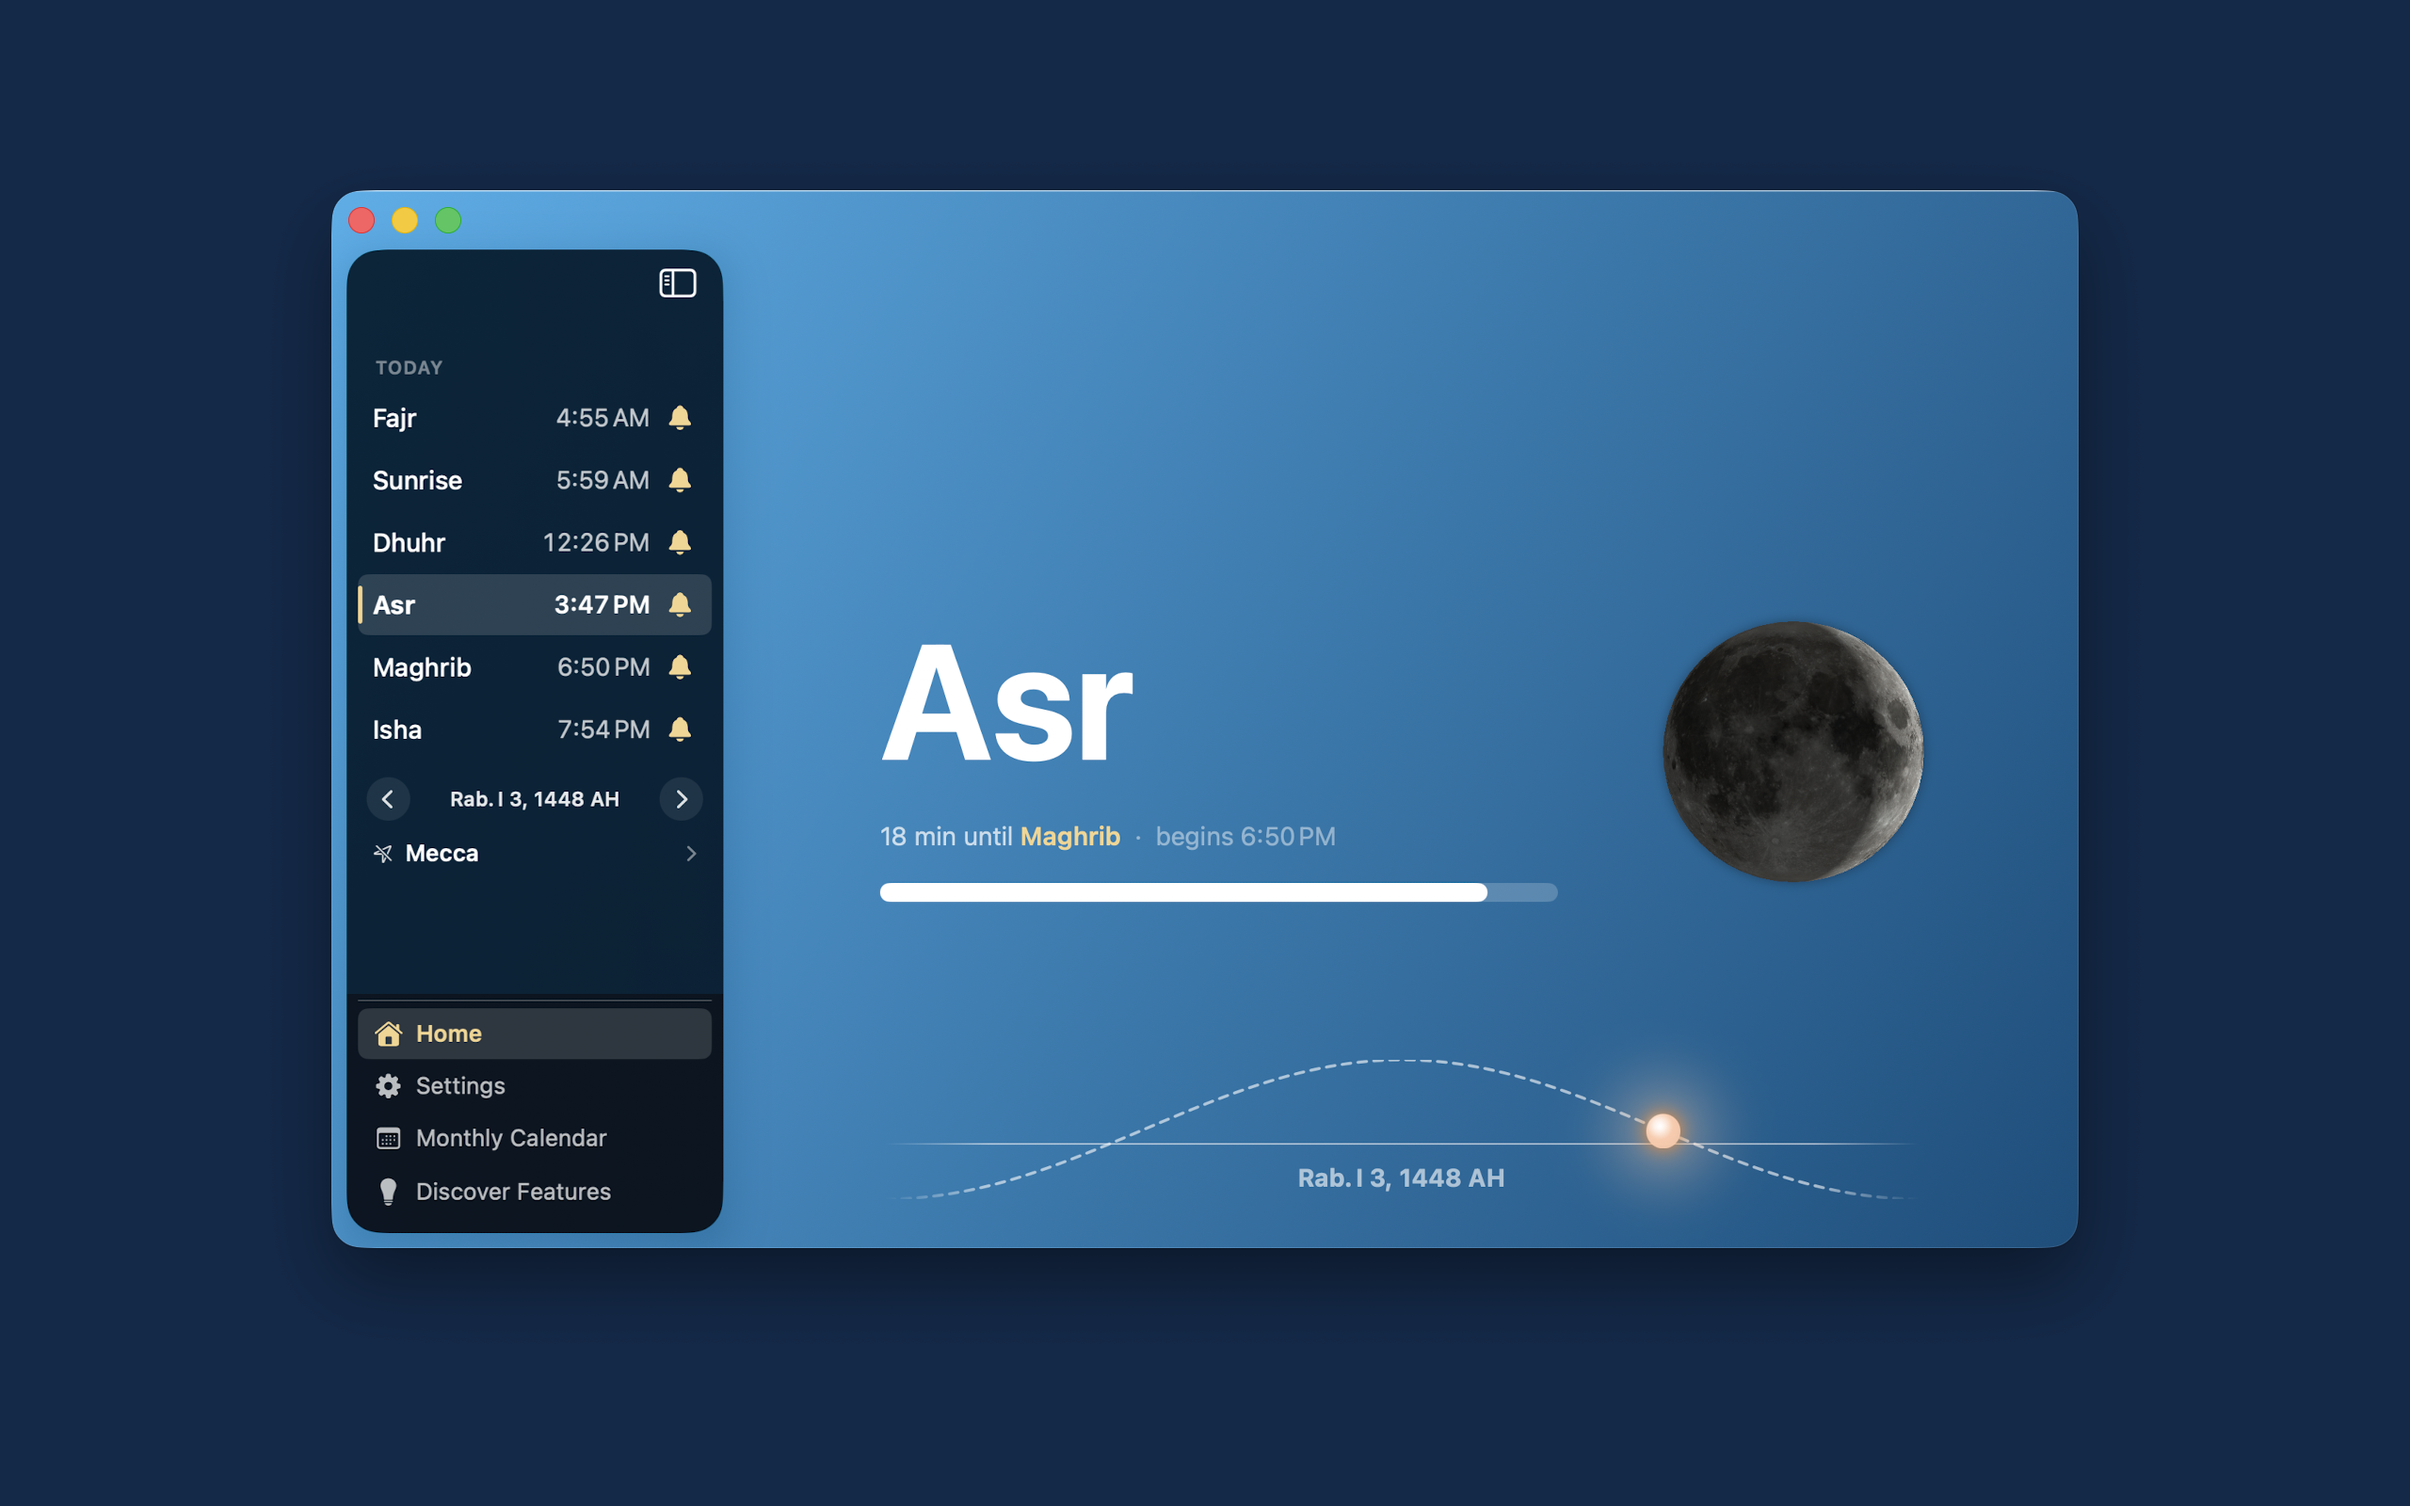
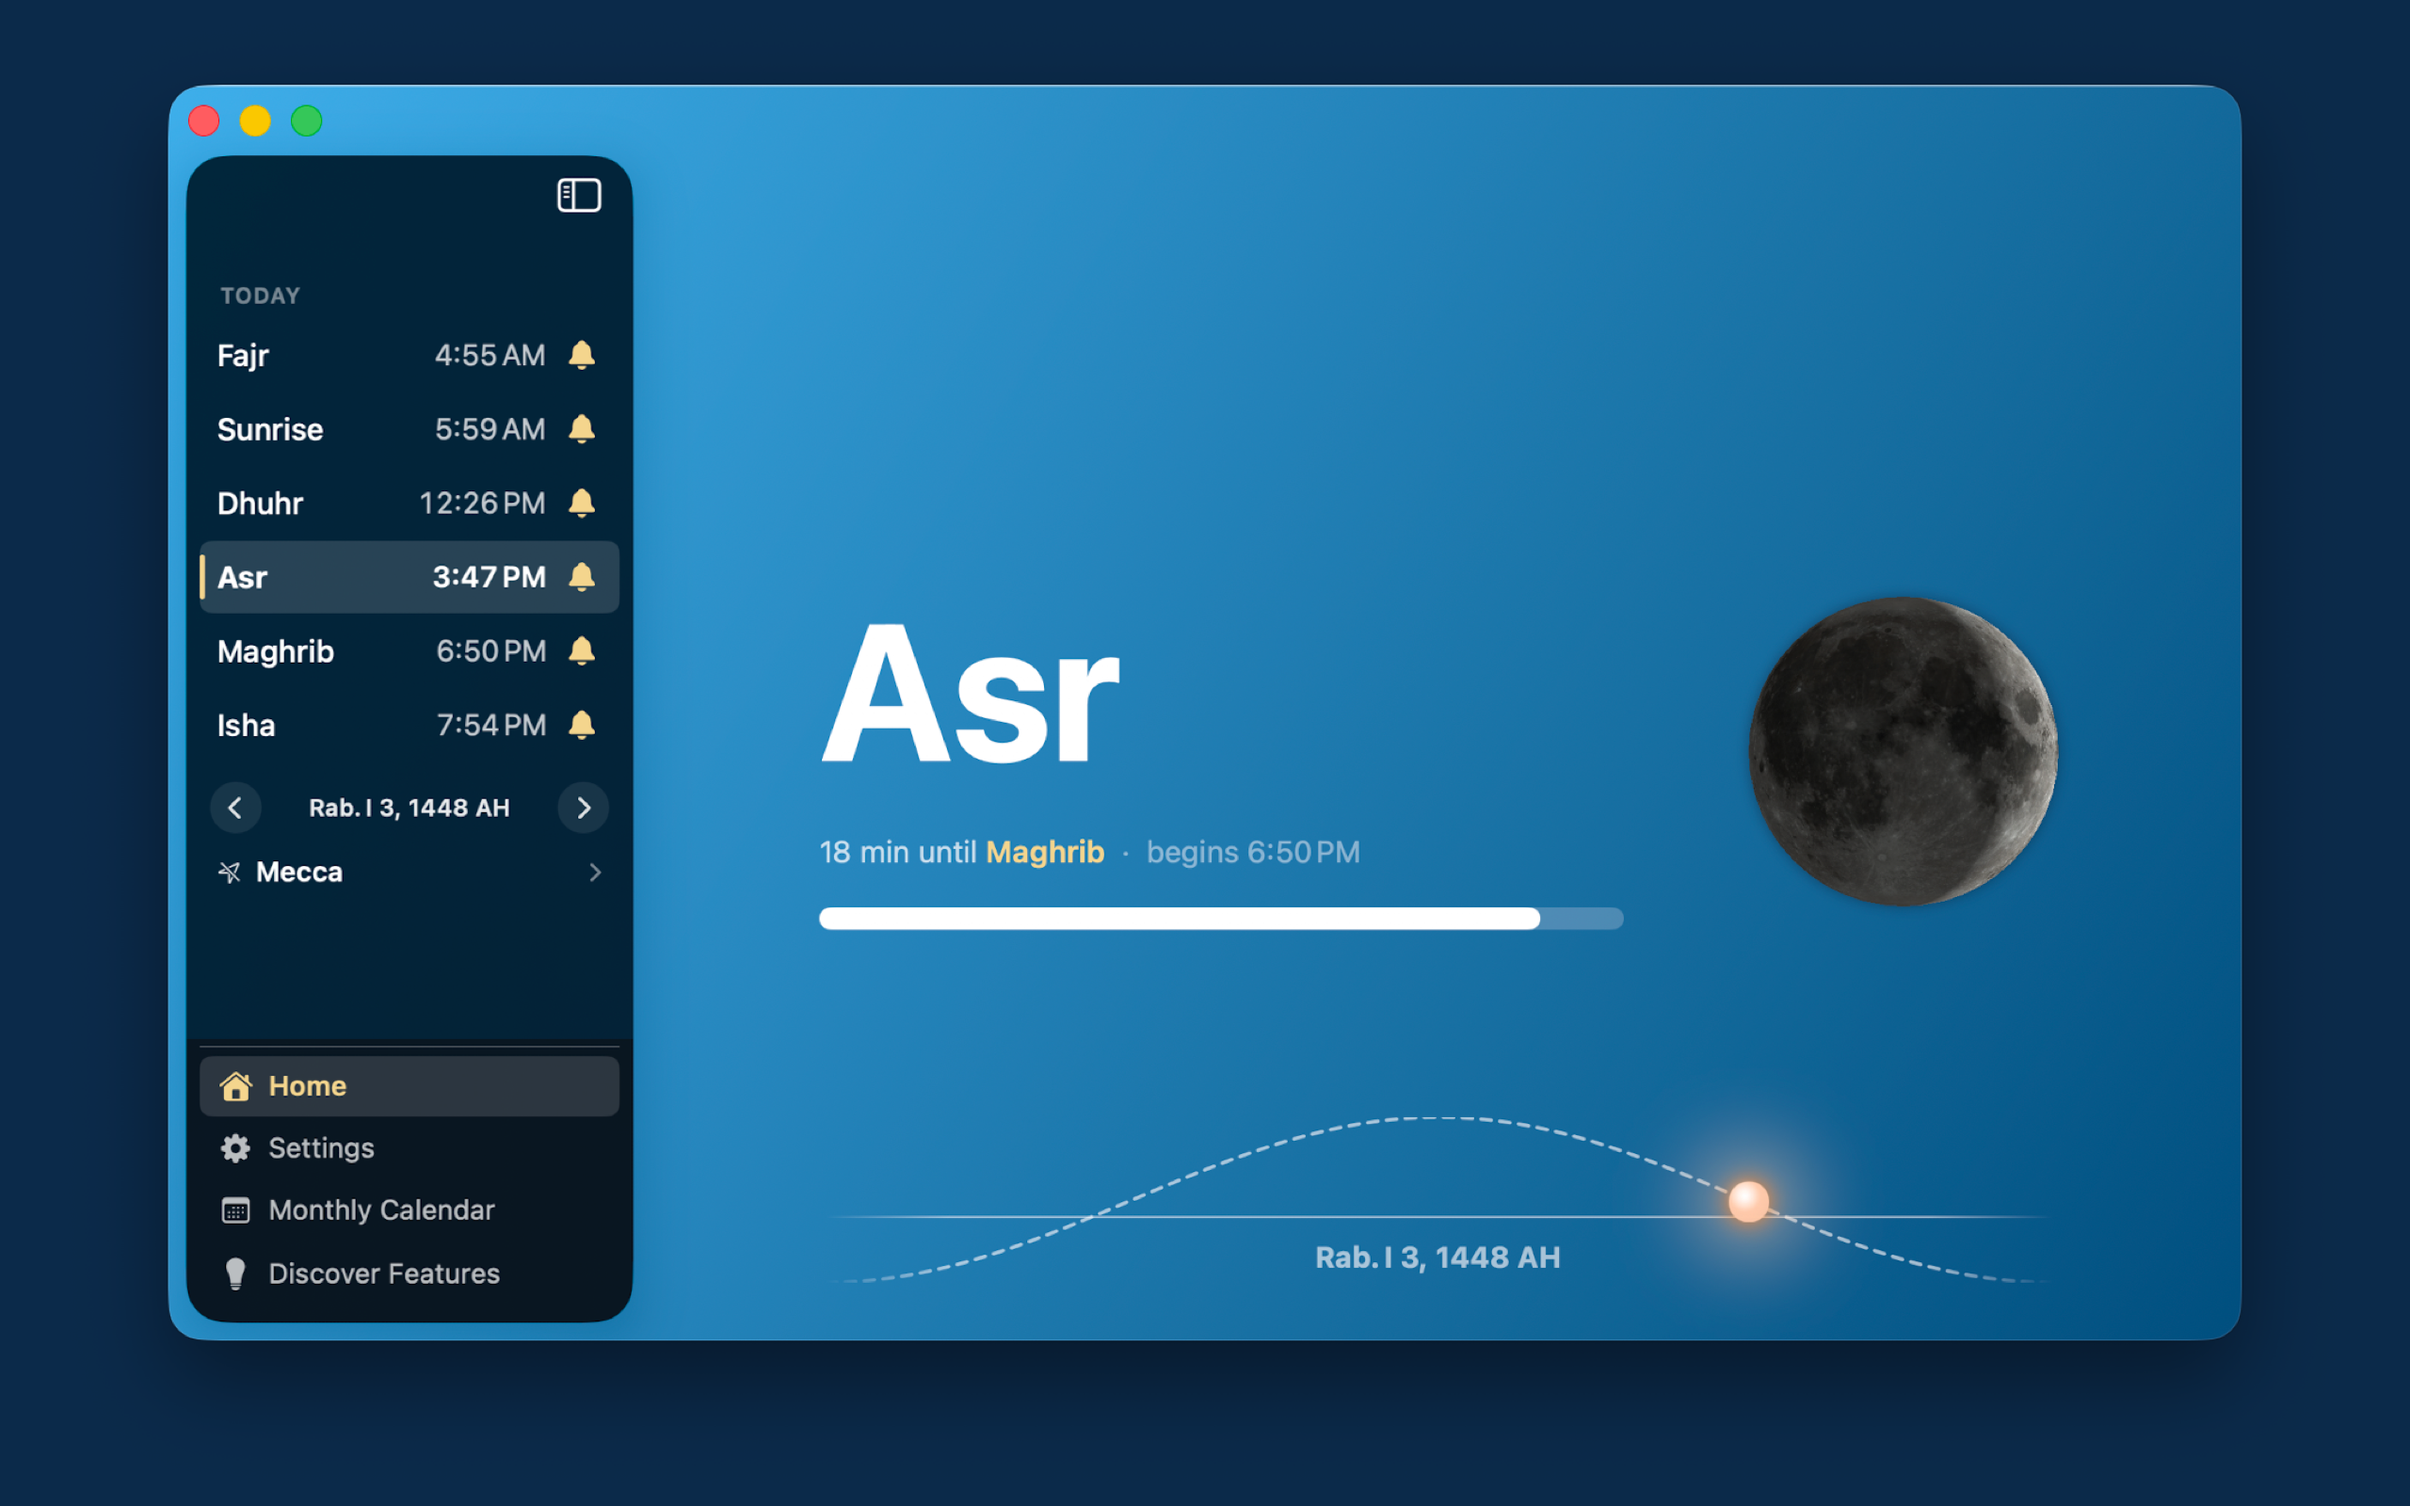
Mac screenshot: strip the alpha channel
App Store Connect rejected it despite 2560x1600 being a listed size — the file
carried an alpha channel (samplesPerPixel 4, hasAlpha yes), which Apple does not
accept. The size was never the problem.

sips cannot composite, and flattening via JPEG lays the window's transparent
shadow onto white, leaving a white box inside the navy. tools/flatten-screenshot.swift
draws the capture over an opaque navy canvas with CoreGraphics instead — no AppKit,
so it runs in a plain shell with no window server session, where NSGraphicsContext
traps.

Now 2560x1600, hasAlpha no, 3 samples per pixel.

Claude-Session: https://claude.ai/code/session_01P8wkCyTqcyt4Mu98s6ygYm

diff --git a/tools/flatten-screenshot.swift b/tools/flatten-screenshot.swift
@@ -1,0 +1,29 @@
+import Foundation
+import CoreGraphics
+import ImageIO
+import UniformTypeIdentifiers
+
+// CoreGraphics only — no AppKit, so this works in a plain shell process with no
+// window server session (an NSGraphicsContext there traps).
+let a = CommandLine.arguments
+guard a.count == 5, let w = Int(a[3]), let h = Int(a[4]),
+      let src = CGImageSourceCreateWithURL(URL(fileURLWithPath: a[1]) as CFURL, nil),
+      let img = CGImageSourceCreateImageAtIndex(src, 0, nil),
+      let cs = CGColorSpace(name: CGColorSpace.sRGB) else { exit(2) }
+
+// noneSkipLast => 32bpp with the alpha byte ignored, i.e. an opaque bitmap.
+guard let ctx = CGContext(data: nil, width: w, height: h, bitsPerComponent: 8,
+                          bytesPerRow: 0, space: cs,
+                          bitmapInfo: CGImageAlphaInfo.noneSkipLast.rawValue) else { exit(3) }
+ctx.setFillColor(CGColor(colorSpace: cs, components: [11/255.0, 42/255.0, 74/255.0, 1])!)
+ctx.fill(CGRect(x: 0, y: 0, width: w, height: h))
+
+let scale = min(Double(w) / Double(img.width), Double(h) / Double(img.height))
+let dw = Double(img.width) * scale, dh = Double(img.height) * scale
+ctx.draw(img, in: CGRect(x: (Double(w) - dw) / 2, y: (Double(h) - dh) / 2, width: dw, height: dh))
+
+guard let out = ctx.makeImage(),
+      let dest = CGImageDestinationCreateWithURL(URL(fileURLWithPath: a[2]) as CFURL,
+                                                 UTType.png.identifier as CFString, 1, nil) else { exit(4) }
+CGImageDestinationAddImage(dest, out, nil)
+exit(CGImageDestinationFinalize(dest) ? 0 : 5)
